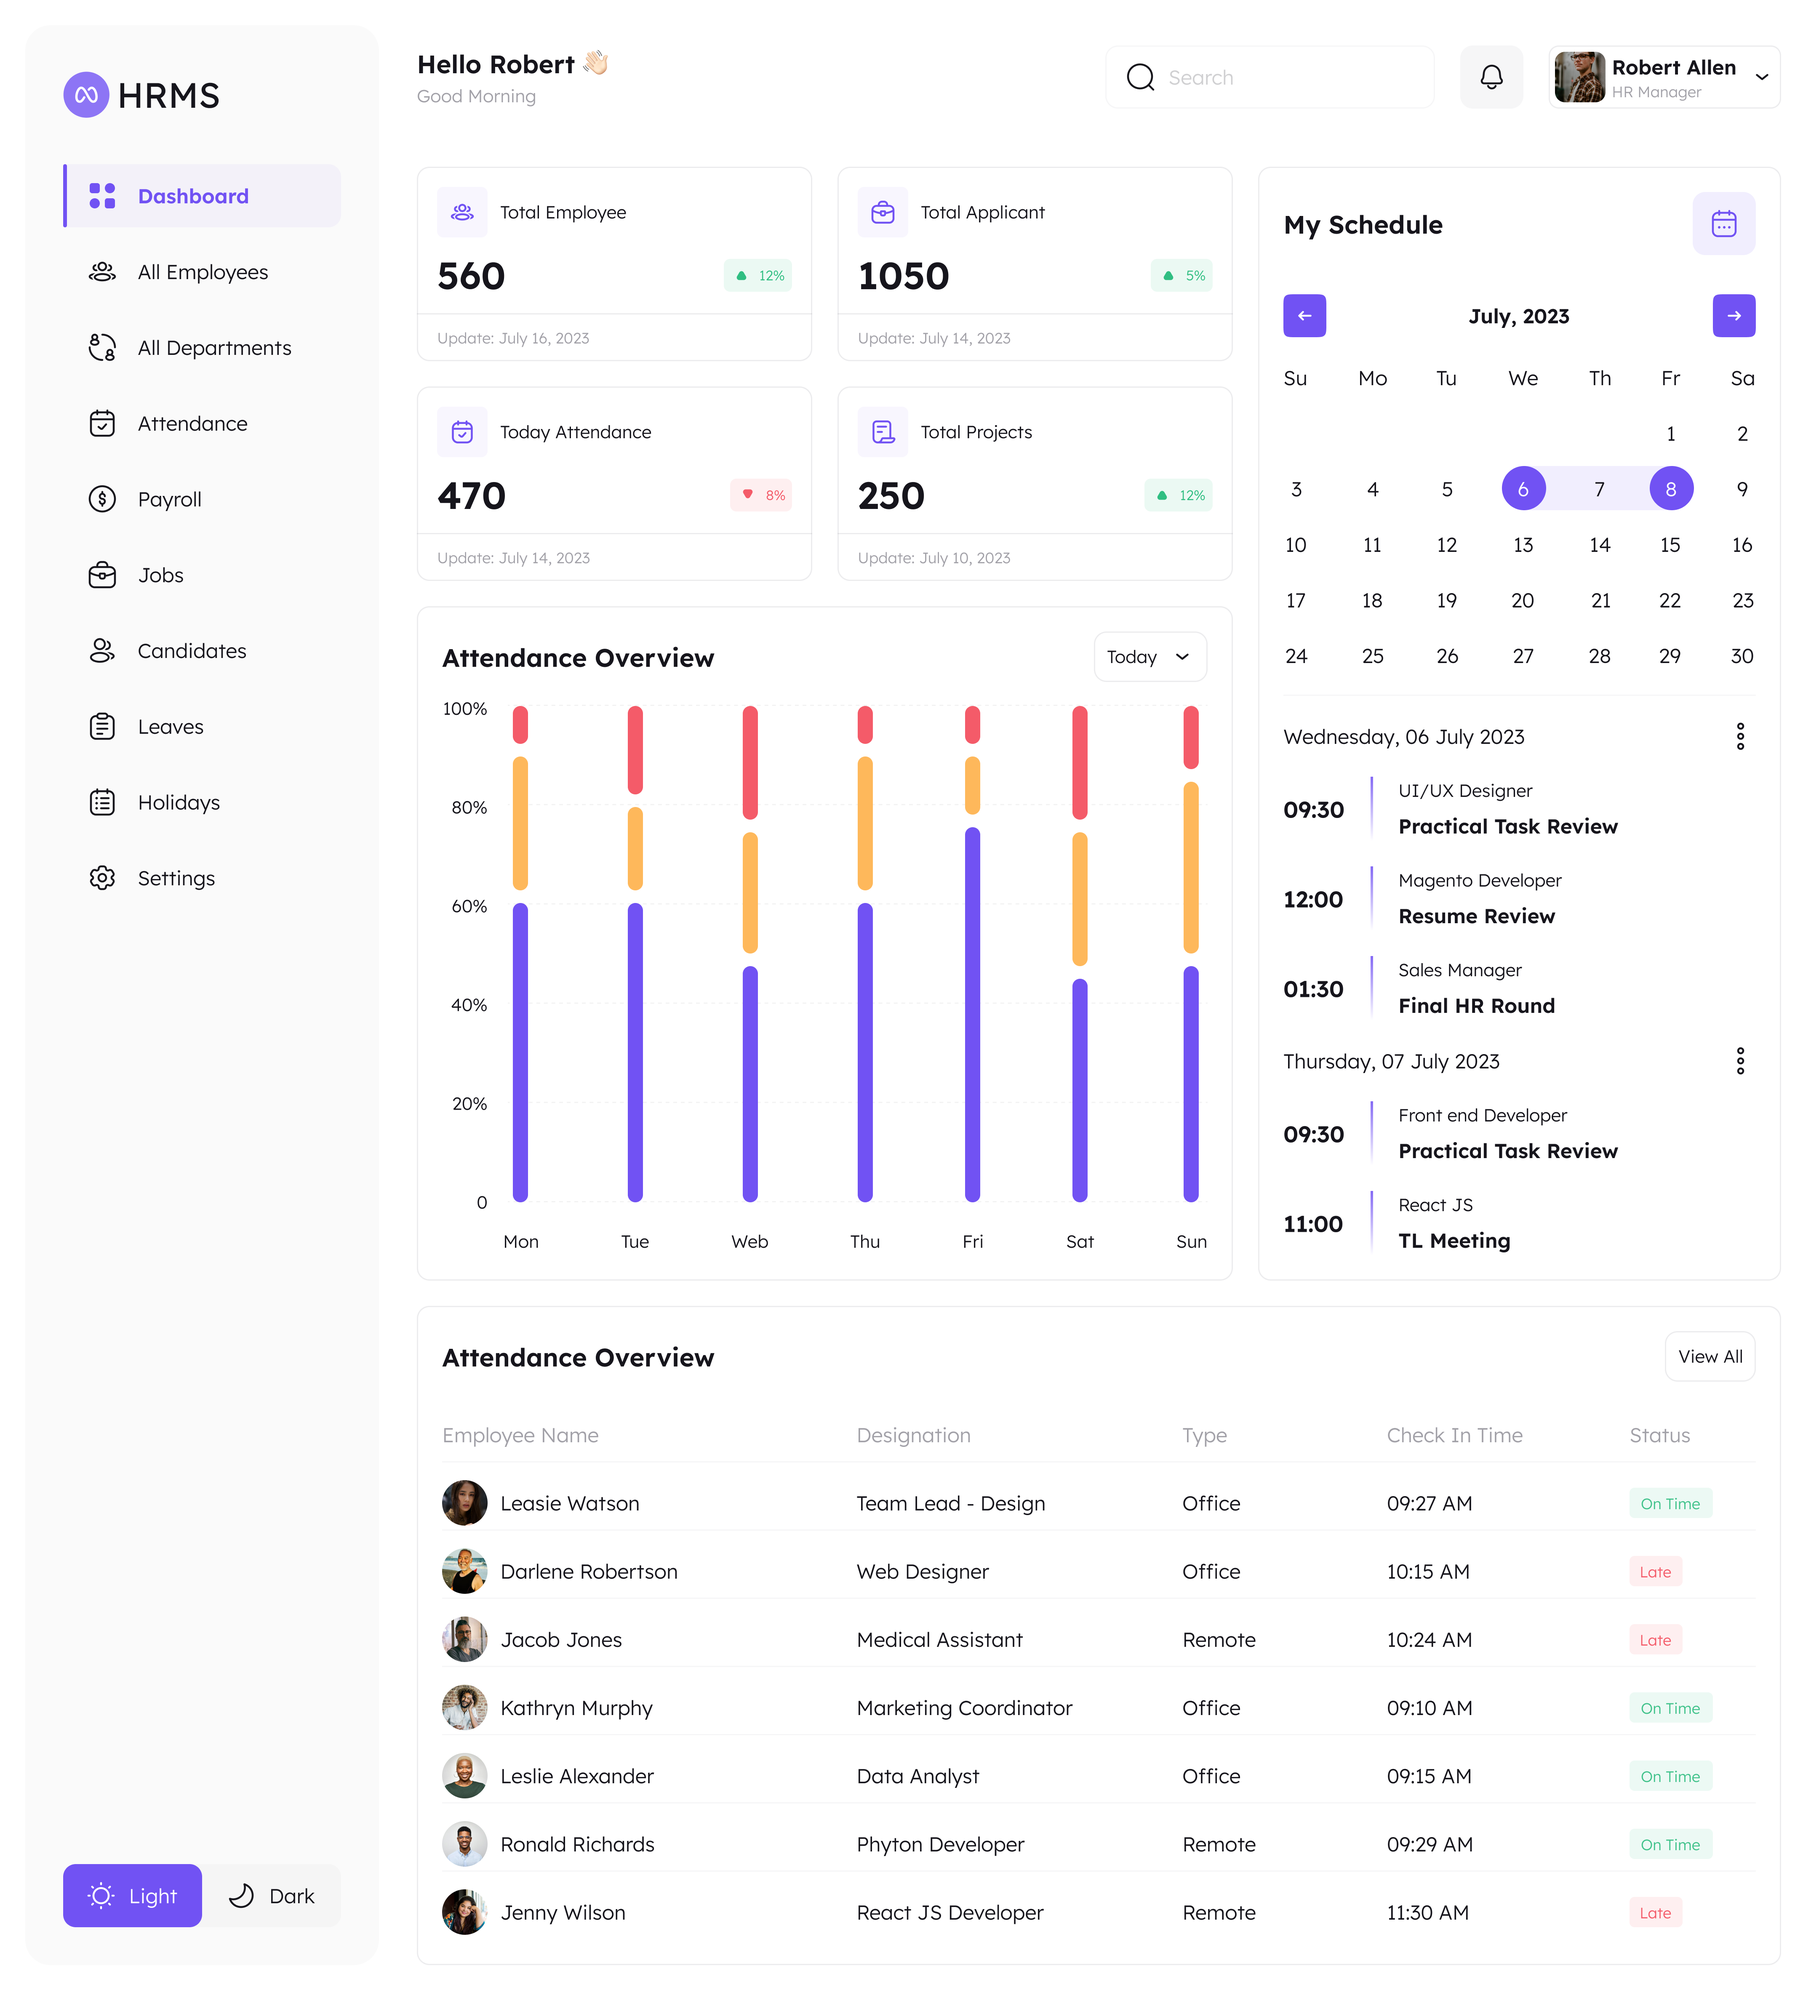
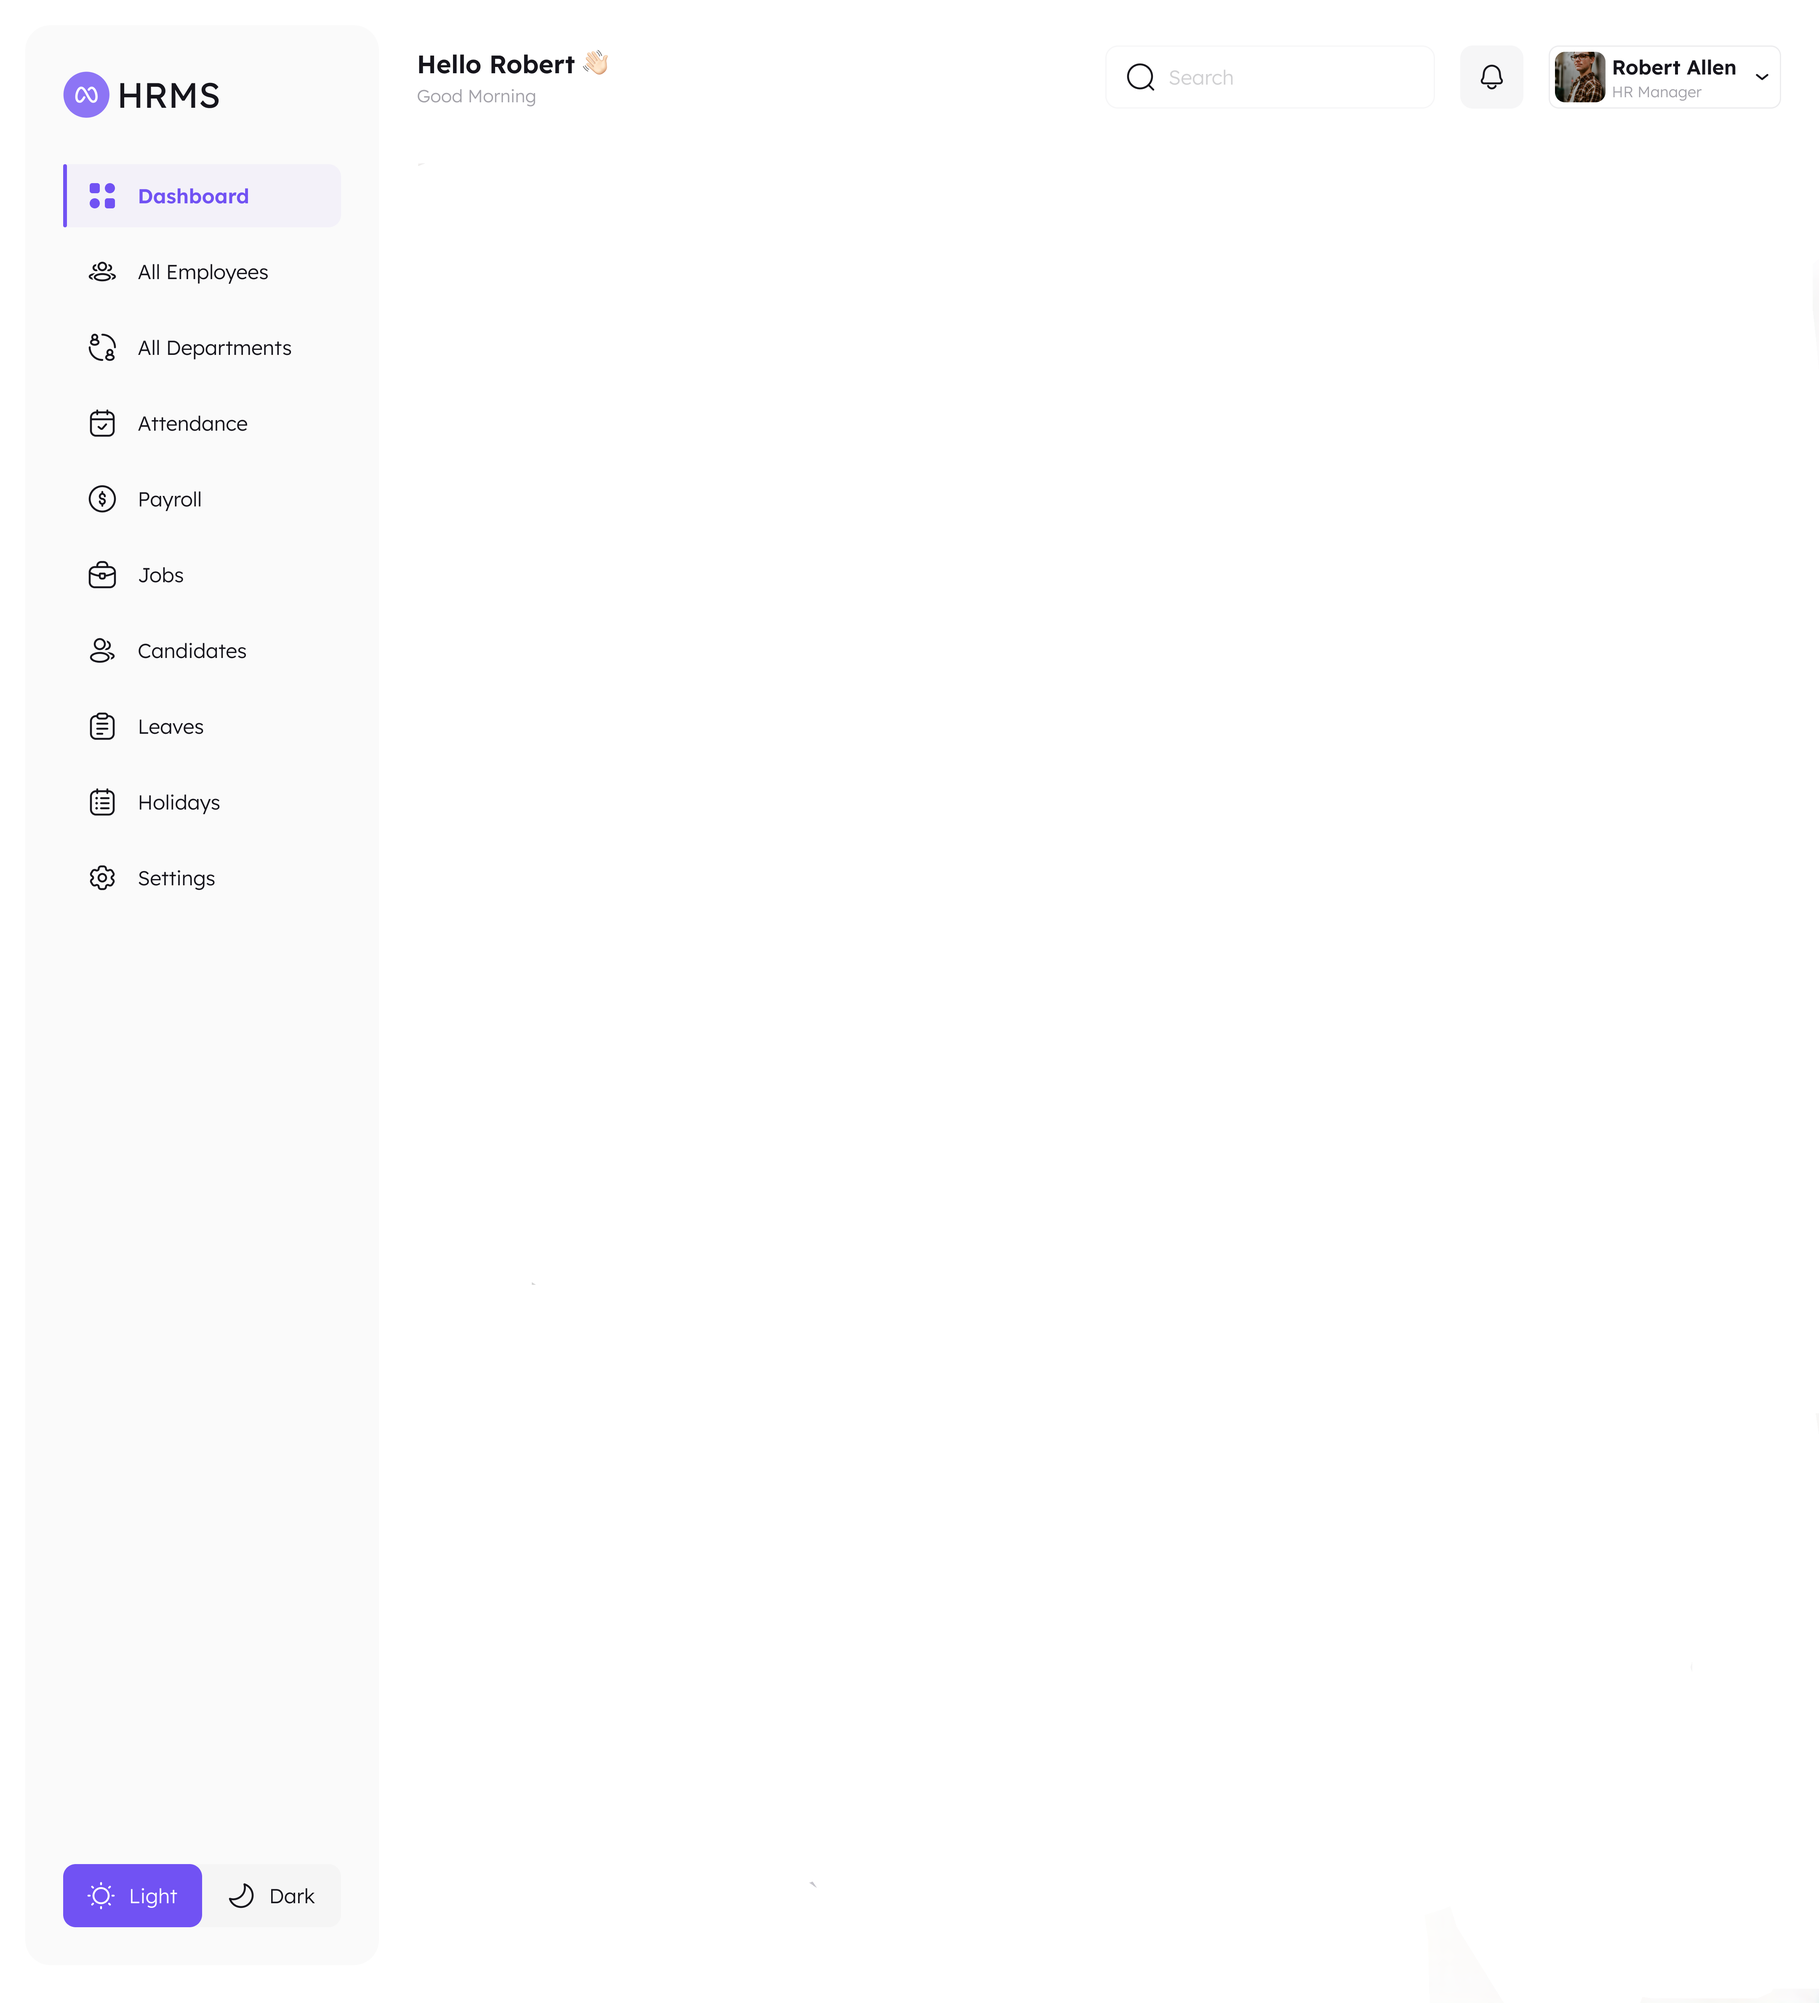
layout updated #2

diff --git a/src/components/layout/sidebar.tsx b/src/components/layout/sidebar.tsx
@@ -1,123 +1,15 @@
-"use client";
-
-import { cn } from "@/lib/utils";
-import {
-  BarChart3,
-  Briefcase,
-  Calendar,
-  Clock,
-  Grid2X2,
-  Users2,
-  // Suitcase,
-  UserCircle,
-  CalendarDays,
-  Settings,
-} from "lucide-react";
-import Link from "next/link";
-import { usePathname } from "next/navigation";
 import Image from "next/image";
+import React from "react";
 
-interface SidebarProps {
-  isOpen: boolean;
-}
-
-const menuItems = [
-  {
-    title: "Dashboard",
-    icon: Grid2X2,
-    href: "/",
-  },
-  {
-    title: "All Employees",
-    icon: Users2,
-    href: "/employees",
-  },
-  {
-    title: "All Departments",
-    icon: Briefcase,
-    href: "/departments",
-  },
-  {
-    title: "Attendance",
-    icon: Clock,
-    href: "/attendance",
-  },
-  {
-    title: "Payroll",
-    icon: BarChart3,
-    href: "/payroll",
-  },
-  {
-    title: "Jobs",
-    icon: BarChart3,
-    href: "/jobs",
-  },
-  {
-    title: "Candidates",
-    icon: UserCircle,
-    href: "/candidates",
-  },
-  {
-    title: "Leaves",
-    icon: Calendar,
-    href: "/leaves",
-  },
-  {
-    title: "Holidays",
-    icon: CalendarDays,
-    href: "/holidays",
-  },
-  {
-    title: "Settings",
-    icon: Settings,
-    href: "/settings",
-  },
-];
-
-export function Sidebar({ isOpen }: SidebarProps) {
-  const pathname = usePathname();
-
+export function Sidebar() {
   return (
-    <aside
-      className={cn(
-        "fixed inset-y-0 left-0 z-20 flex w-64 flex-col border-r bg-background transition-transform lg:translate-x-0 lg:relative",
-        !isOpen && "-translate-x-full"
-      )}
-    >
-      <div className="p-4">
-        <div className="flex items-center gap-2">
-          <Image
-            src="/imgs/logo.png"
-            alt="HRMS Logo"
-            width={40}
-            height={40}
-            className="object-contain"
-          />
-          <span className="font-semibold text-xl">HRMS</span>
-        </div>
+    <aside>
+      <div className="p-4 flex items-center gap-2">
+        <Image src="/imgs/logo.png" alt="HRMS Logo" width={40} height={40} />
+        <p className="text-xl font-semibold">HRMS</p>
       </div>
-
-      <div className="flex-1 overflow-y-auto py-4">
-        <nav className="grid gap-1 px-2">
-          {menuItems.map((item) => {
-            const isActive = pathname === item.href;
-            return (
-              <Link
-                key={item.href}
-                href={item.href}
-                className={cn(
-                  "flex items-center gap-3 rounded-lg px-3 py-2 text-sm transition-colors",
-                  isActive
-                    ? "bg-primary text-primary-foreground"
-                    : "hover:bg-muted text-muted-foreground hover:text-foreground"
-                )}
-              >
-                <item.icon className="h-4 w-4" />
-                {item.title}
-              </Link>
-            );
-          })}
-        </nav>
+      <div className="flex flex-col gap-4 p-4">
+        <div></div>
       </div>
     </aside>
   );

diff --git a/src/components/layout/navbar.tsx b/src/components/layout/navbar.tsx
@@ -27,8 +27,8 @@ export function Navbar({ onMenuClick }: NavbarProps) {
       </div>
 
       <div className="flex items-center gap-4">
-        <h2 className="text-xl">Hello Robert 👋</h2>
-        <p className="text-muted-foreground">Good Morning</p>
+        <h2 className="text-xl font-semibold">Hello Robert 👋</h2>
+        <p className="text-sm text-muted-foreground">Good Morning</p>
       </div>
 
       <div className="flex items-center gap-4 ml-auto">
@@ -37,7 +37,7 @@ export function Navbar({ onMenuClick }: NavbarProps) {
           <Input
             type="search"
             placeholder="Search..."
-            className="pl-8 bg-muted"
+            className="pl-8"
           />
         </div>
 
@@ -58,8 +58,8 @@ export function Navbar({ onMenuClick }: NavbarProps) {
                   className="rounded-full"
                 />
                 <div className="hidden md:block text-left">
-                  <p className="text-sm font-medium">Robert Allen</p>
-                  <p className="text-xs text-muted-foreground">HR Manager</p>
+                  <p className="text-sm font-medium leading-none">Robert Allen</p>
+                  <p className="text-xs text-muted-foreground mt-1">HR Manager</p>
                 </div>
               </div>
               <ChevronDown className="h-4 w-4 opacity-50" />
